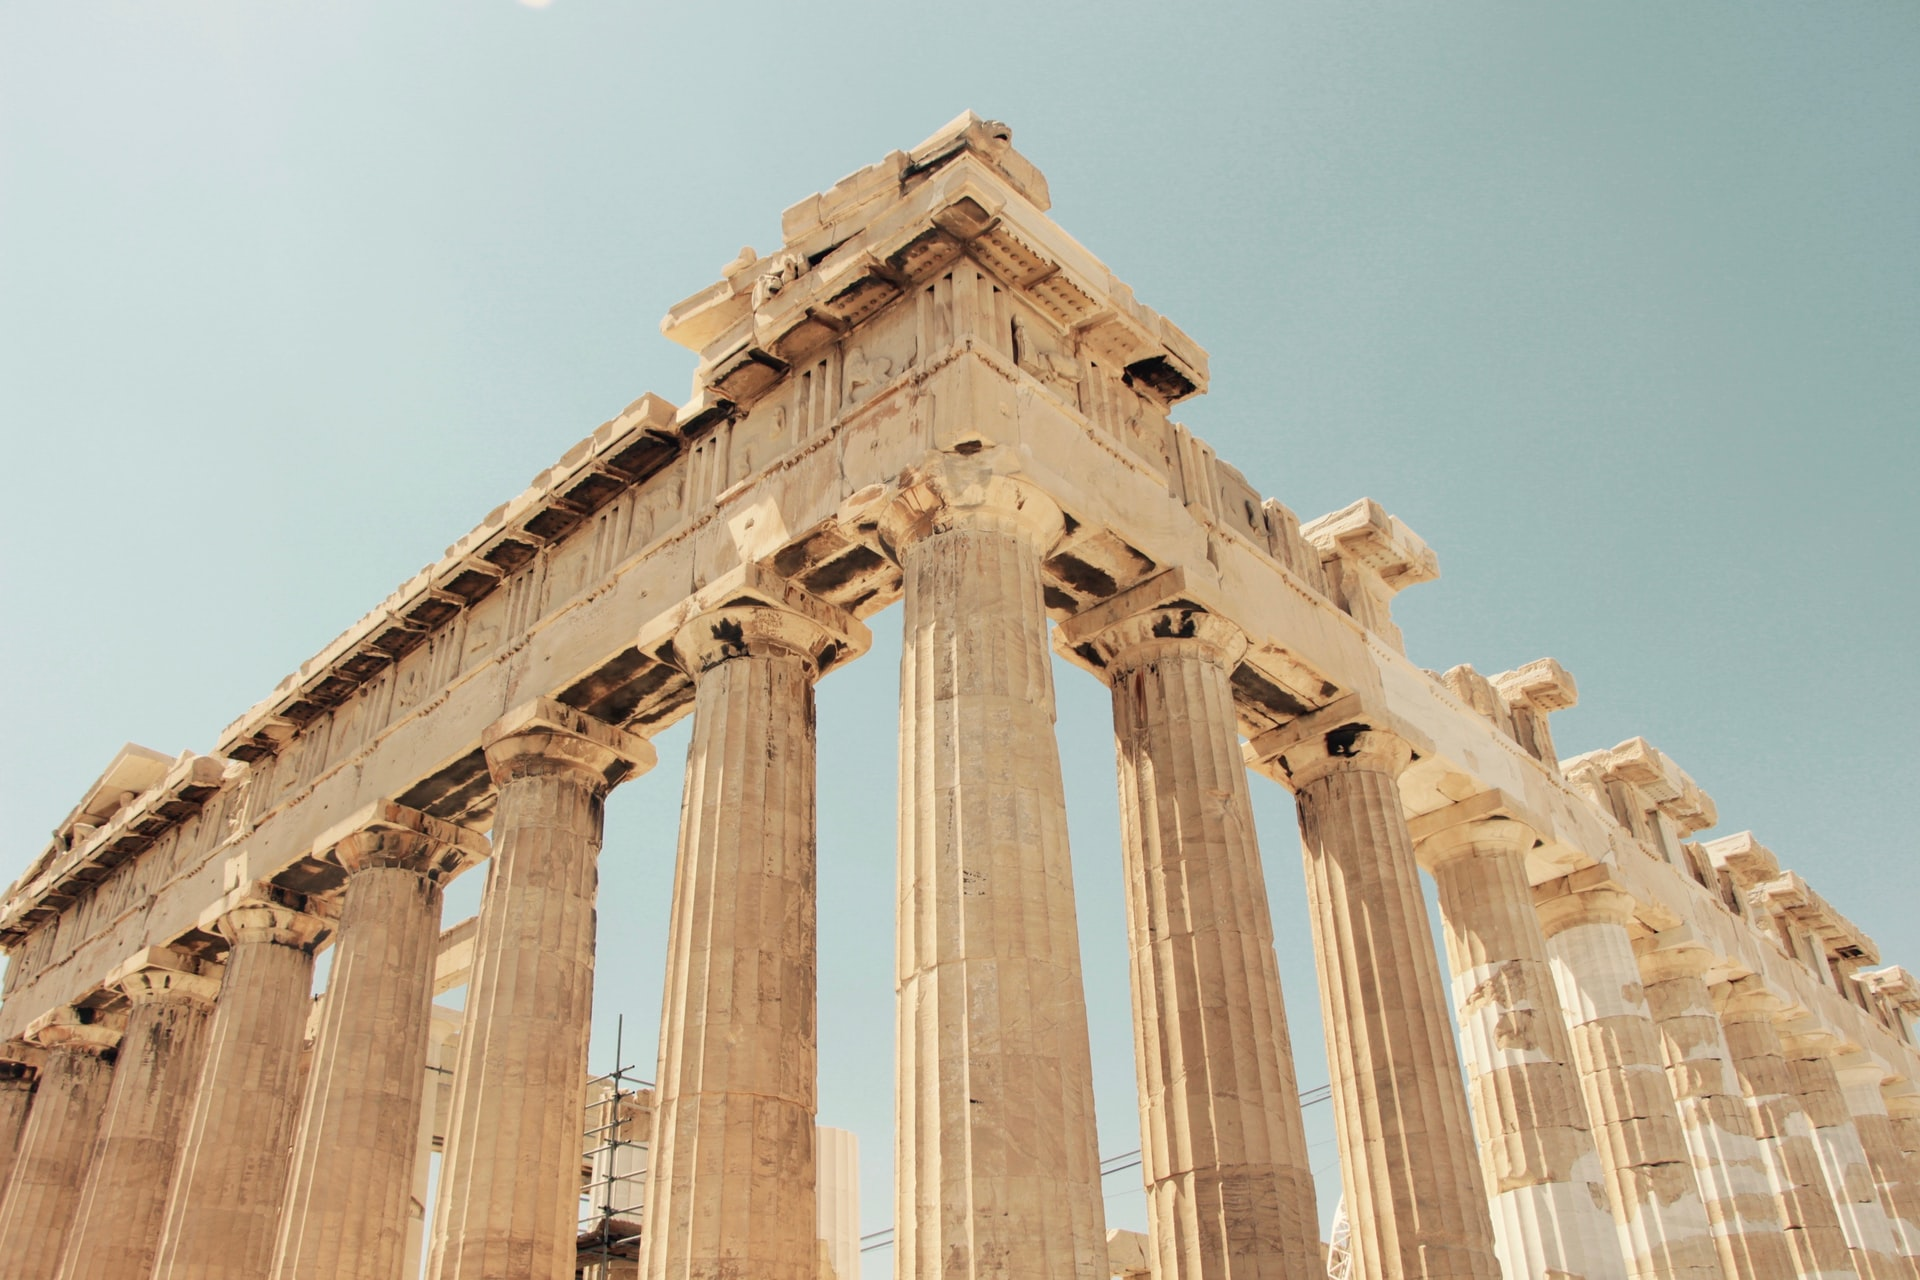
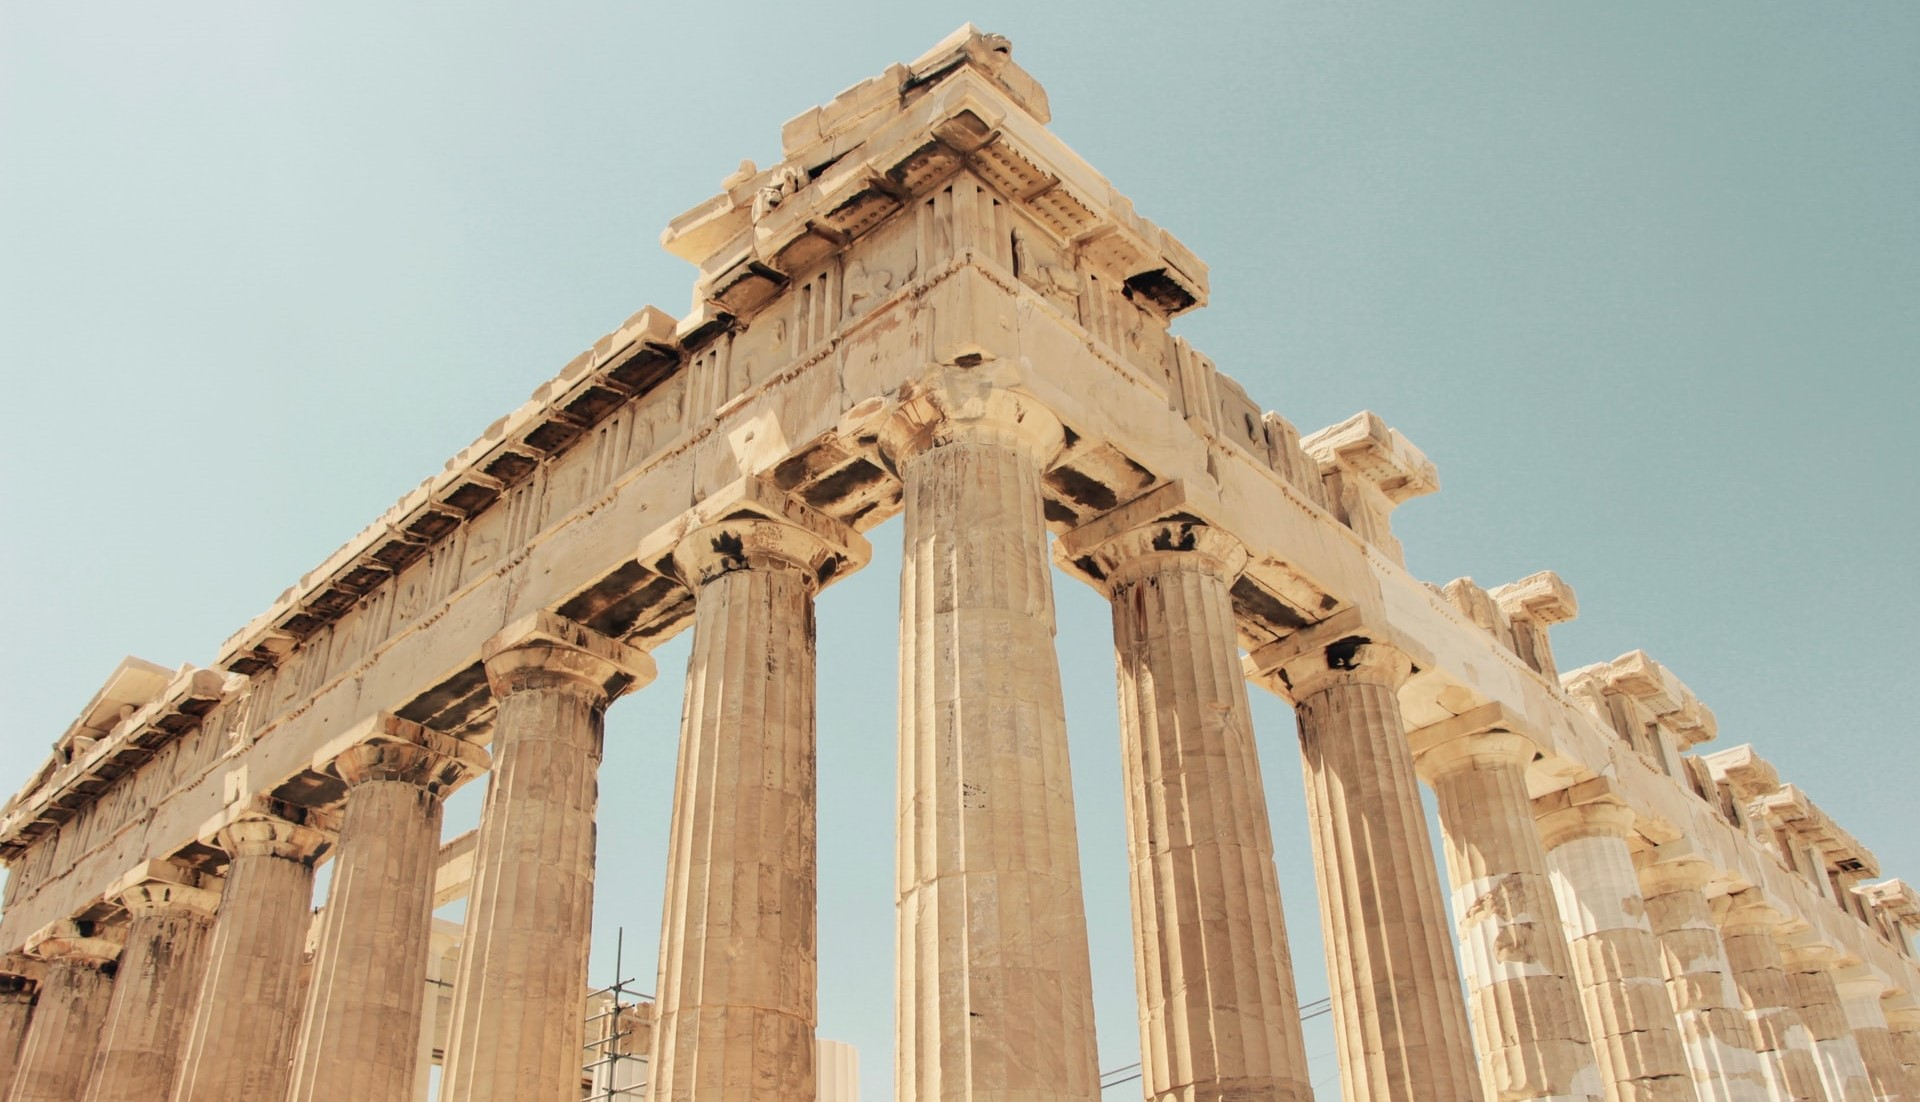
destination imgs put into html instead of css, still not complete

Changed region(s): [[0.0, 0.0309, 1.0, 1.0], [0.4688, 0.7405, 0.5312, 1.0], [0.4688, 0.5245, 0.5, 0.5554]]

diff --git a/index.html b/index.html
@@ -81,18 +81,22 @@
     </div>
     <div class="destinations__slider">
         <div class="destinations__slide">
+            <img src="src/images/destination1.jpg" alt="" class="destinations__slide-img">
             <h3 class="destinations__slide-name">Monument of Berlin</h3>
             <p class="destinations__slide-location">Berlin, Germany</p>
         </div>
         <div class="destinations__slide">
+            <img src="src/images/destination2.jpg" alt="" class="destinations__slide-img">
             <h3 class="destinations__slide-name">Millenium Bridge</h3>
             <p class="destinations__slide-location">London, United Kingdom</p>
         </div>
         <div class="destinations__slide">
+            <img src="src/images/destination3.jpg" alt="" class="destinations__slide-img">
             <h3 class="destinations__slide-name">Rialto Bridge</h3>
             <p class="destinations__slide-location">Venice, Italy</p>
         </div>
         <div class="destinations__slide">
+            <img src="src/images/destination4.jpg" alt="" class="destinations__slide-img">
             <h3 class="destinations__slide-name">Sea of Orange Tiles</h3>
             <p class="destinations__slide-location">Lisbon, Portugal</p>
         </div>

diff --git a/src/sass/intro.scss b/src/sass/intro.scss
@@ -1,3 +1,4 @@
+@use "sass:math";
 @import "variables";
 @import "helpers";
 
@@ -238,17 +239,20 @@
     &__img {
     }
     &__slider {
-        display: flex;
-        justify-content: space-between;
+        display: grid;
+        grid-template-columns: repeat(3, math.div(toRem($max-width-px),4)) ;
+        grid-template-rows: toRem(661px) ;
     }
     &__slide {
         height: toRem(658px);
         width: toRem(497px);
-        //background-image: url('#{$imgs-path}/destination1.jpg');
-        background-color: #000;
         display: flex;
         flex-direction: column;
         justify-content: flex-end;
+        &-img {
+            width: 100%;
+            height: 100%;
+        }
         &-name {
             color: $primary-font-color;
             font-family: "Playfair Display", serif;

diff --git a/src/css/style.css b/src/css/style.css
@@ -523,16 +523,20 @@ html, body {
   height: 3.75rem;
 }
 .destinations__slider {
-  display: flex;
-  justify-content: space-between;
+  display: grid;
+  grid-template-columns: repeat(3, 24.3125rem);
+  grid-template-rows: 41.3125rem;
 }
 .destinations__slide {
   height: 41.125rem;
   width: 31.0625rem;
-  background-color: #000;
   display: flex;
   flex-direction: column;
   justify-content: flex-end;
+}
+.destinations__slide-img {
+  width: 100%;
+  height: 100%;
 }
 .destinations__slide-name {
   color: #FFF;
